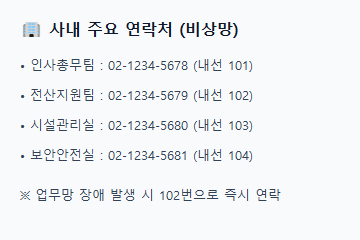
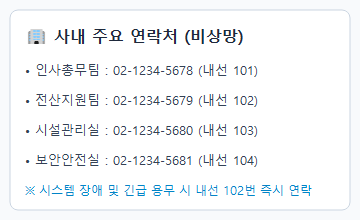
docs: add full set of high-res feature screenshots across calendar, memo, schedule, settings, and alarms to user guide

Changed region(s): [[0.0611, 0.2455, 0.8861, 0.9], [0.0611, 0.0818, 0.6722, 0.2182], [0.9472, 0.9273, 0.9778, 0.9545]]

diff --git a/docs/TaskCalendar_업무활용가이드.md b/docs/TaskCalendar_업무활용가이드.md
@@ -1,59 +1,95 @@
-# 📅 TaskCalendar 신규 기능 & 업무 활용 가이드 (1 Page)
+# 📅 TaskCalendar 기능 & 업무 활용 가이드 (v1.2.0)
 
-> **사내 임직원 업무 효율 향상을 위한 캘린더 신규 기능(스마트 플로팅 메모, 사전 알람, 전역 단축키) 안내서입니다.**
+> **사내 임직원의 업무 효율과 일정 관리를 극대화하기 위한 TaskCalendar 전체 기능(캘린더, 스마트 플로팅 메모, 사전 알람, 전역 단축키) 안내서입니다.**
 
 ---
 
-## 📸 주요 화면 미리보기
+## 📸 전체 기능 화면 미리보기
 
 ````carousel
-![메인 캘린더 화면](C:\Users\ADMIN\.gemini\antigravity\brain\f1bf9cdb-0cb1-4823-acb2-d1ea479a4ce2\main_calendar_screen.png)
+![01. 메인 캘린더 화면](C:\Users\ADMIN\.gemini\antigravity\brain\f1bf9cdb-0cb1-4823-acb2-d1ea479a4ce2\01_main_calendar.png)
 <!-- slide -->
-![전화번호부 및 첨부파일 활용 예시](C:\Users\ADMIN\.gemini\antigravity\brain\f1bf9cdb-0cb1-4823-acb2-d1ea479a4ce2\memo_phonebook_screen.png)
+![02. 스마트 플로팅 메모 (전화번호부/이미지/첨부파일)](C:\Users\ADMIN\.gemini\antigravity\brain\f1bf9cdb-0cb1-4823-acb2-d1ea479a4ce2\02_floating_memo.png)
+<!-- slide -->
+![03. 일정 등록 화면 (직접 입력 & 사전 알람)](C:\Users\ADMIN\.gemini\antigravity\brain\f1bf9cdb-0cb1-4823-acb2-d1ea479a4ce2\03_schedule_dialog.png)
+<!-- slide -->
+![04. 환경설정 및 전역 단축키](C:\Users\ADMIN\.gemini\antigravity\brain\f1bf9cdb-0cb1-4823-acb2-d1ea479a4ce2\04_settings_dialog.png)
+<!-- slide -->
+![05. 알림 관리자 (사전 알람 목록 & 반복 알림)](C:\Users\ADMIN\.gemini\antigravity\brain\f1bf9cdb-0cb1-4823-acb2-d1ea479a4ce2\05_alarm_manager.png)
 ````
 
 ---
 
-## 📌 1. 스마트 플로팅 메모 (바탕화면 포스트잇 & 업무 자료 활용)
+## 📌 1. 메인 캘린더 화면
 
-| 주요 기능 | 설명 및 활용 팁 |
+![메인 캘린더](C:\Users\ADMIN\.gemini\antigravity\brain\f1bf9cdb-0cb1-4823-acb2-d1ea479a4ce2\01_main_calendar.png)
+
+* **캘린더 빈 곳 더블 클릭**: 날짜 셀의 빈 공간을 더블 클릭하면 해당 날짜로 **[일정 등록] 창이 즉시 열립니다.**
+* **상단 헤더 정보**: 최신 버전(`v1.2.0`) 확인 및 `< 2026년 8월 오늘 >` 버튼으로 연/월을 손쉽게 이동할 수 있습니다.
+* **마우스 휠 월 이동**: 캘린더 영역에서 마우스 휠을 위/아래로 굴리면 이전 달 / 다음 달로 부드럽게 전환됩니다.
+* **사이드바 통합 관리**: 우측 사이드바에서 오늘 일정, 선택일 일정, 메모 목록을 직관적으로 확인하고 정렬할 수 있습니다.
+
+---
+
+## 📝 2. 스마트 플로팅 메모 (바탕화면 포스트잇 & 업무 자료)
+
+![스마트 플로팅 메모](C:\Users\ADMIN\.gemini\antigravity\brain\f1bf9cdb-0cb1-4823-acb2-d1ea479a4ce2\02_floating_memo.png)
+
+| 주요 기능 | 설명 및 업무 활용 팁 |
 | :--- | :--- |
-| **바탕화면 자유 배치 & 위치 자동 기억** | • 메모를 원하는 위치에 배치하면 **프로그램을 껐다 켜도 그 위치·크기·접힘 상태 그대로 100% 자동 복원**됩니다. |
-| **전화번호부 / 이미지 본문 삽입** | • 캡처 도구(Win+Shift+S)로 **전화번호부, 비상 연락망, 업무 매뉴얼 등을 복사(Ctrl+C) 후 메모에 붙여넣기(Ctrl+V)**하면 본문에 깔끔하게 삽입됩니다. |
-| **파일 드래그 앤 드롭 자동 첨부** | • 탐색기에서 파일을 메모 창으로 **끌어다 놓기(Drag & Drop)**만 하면 파일이 즉시 자동 첨부됩니다. |
-| **[신규] 파일 열기 & 파일 폴더 열기** | • **파일 열기 (실행)** : 첨부파일을 기본 연결 프로그램으로 즉시 실행합니다.<br>• **파일 폴더 열기** : 윈도우 탐색기를 열어 **해당 파일이 저장된 위치를 바로 선택(하이라이트)**해 줍니다. |
-| **메모 삭제 시 첨부파일 자동 정리** | • 메모를 삭제하면 연결된 첨부파일도 디스크에서 **안전하게 동반 삭제**되어 불필요한 용량을 차지하지 않습니다. |
-| **항상 위 고정(📌) 및 투명도 조절** | • 우상단 핀(📌)을 눌러 다른 창보다 항상 위에 띄우거나, 제목 표시줄 더블클릭으로 접기/펼치기가 가능합니다. |
+| **바탕화면 위치 & 크기 자동 기억** | 메모를 원하는 곳에 배치해 두면 **프로그램 종료 후 재시작 시 그 위치·크기·접힘 상태 그대로 100% 자동 복원**됩니다. |
+| **전화번호부 / 이미지 본문 삽입** | 캡처 도구(`Win + Shift + S`)로 **사내 연락망, 업무 매뉴얼, 비상 연락처 등을 복사(Ctrl+C) 후 메모에 붙여넣기(Ctrl+V)**하면 본문에 선명하게 들어갑니다. |
+| **파일 드래그 앤 드롭 자동 첨부** | 탐색기에서 파일을 메모 창으로 **끌어다 놓기(Drag & Drop)**만 하면 파일이 즉시 자동 첨부됩니다. |
+| **[신규] 파일 열기 & 파일 폴더 열기** | • **파일 열기** : 첨부파일을 기본 연결 프로그램(엑셀, PDF, 이미지 뷰어 등)으로 바로 실행합니다.<br>• **파일 폴더 열기** : 윈도우 탐색기를 열어 **해당 파일이 있는 폴더로 이동 후 파일을 자동 하이라이트**해 줍니다. |
+| **메모 삭제 시 파일 자동 정리** | 메모를 삭제하면 연결된 첨부파일도 디스크에서 **안전하게 동반 삭제**되어 용량을 낭비하지 않습니다. |
+| **상태 전환 버튼 (`-` / `+`)** | 상단 `-` 버튼을 누르면 제목만 남기고 상단 바(34px)로 깔끔하게 접히며(`+`로 변경), `+`를 누르면 원래 크기로 즉시 복원됩니다. |
+| **항상 위 고정(📌) & 투명도 조절** | 핀(📌)을 눌러 다른 작업 창보다 항상 위에 띄우거나, 슬라이더로 투명도를 조절해 배경 문서를 보면서 작업할 수 있습니다. |
+| **즉각 닫기 최적화 (0ms)** | `X` 버튼을 누르면 지연 없이 **누르는 즉시 번개처럼 빠르게 닫히며** 안전하게 자동 저장됩니다. |
 
 ---
 
-## ⏰ 2. 놓치지 않는 일정 & 사전 알람
+## ✍ 3. 일정 & 할일 등록
 
-* **사전 알림 설정**: 중요한 회의나 업무 마감 전 **5분 전, 10분 전, 15분 전, 30분 전, 1시간 전** 등 사전 알림을 지정할 수 있습니다.
-* **실시간 팝업 알림**: 알림 시간이 되면 화면 우측 하단에 알림 팝업이 표시되며, **[확인]** 또는 **[다시 알림 (5분 뒤)]**을 선택할 수 있습니다.
+![일정 등록 창](C:\Users\ADMIN\.gemini\antigravity\brain\f1bf9cdb-0cb1-4823-acb2-d1ea479a4ce2\03_schedule_dialog.png)
+
+* **간소화된 직접 입력창**: 복잡한 헤더 라벨을 없애고 열자마자 바로 일정 내용을 타이핑할 수 있는 넓은 입력 영역을 제공합니다.
+* **반복 일정 지원**: 매일, 매주, 매월 특정 요일/날짜, 매년 등 다양한 반복 패턴을 지원합니다.
+* **일시 & 종일 옵션**: 시작/종료 일시 및 시간을 자유롭게 지정하거나 [종일] 체크로 하루 종일 일정을 설정할 수 있습니다.
+* **사전 팝업 알람**: 일정 시작 시간 기준 **5분 전, 10분 전, 15분 전, 30분 전, 1시간 전** 사전 알림을 지정할 수 있습니다.
 
 ---
 
-## ⚙ 3. 환경설정 & 전역 단축키 (업무 속도 UP)
+## ⚙ 4. 환경설정 & 전역 단축키
 
-메인 창 우측 상단의 **[환경설정]** 메뉴에서 설정할 수 있습니다.
+![환경설정](C:\Users\ADMIN\.gemini\antigravity\brain\f1bf9cdb-0cb1-4823-acb2-d1ea479a4ce2\04_settings_dialog.png)
 
 ```mermaid
 graph LR
     A[환경설정] --> B[윈도우 시작 시 자동 실행]
     A --> C[캘린더 표시/숨김 단축키]
     A --> D[빠른 메모 생성 단축키]
-    B --> E[부팅 시 자동 실행되어 메모/알림 즉시 대기]
+    B --> E[부팅 시 자동 실행되어 메모/알람 즉시 대기]
     C --> F[다른 프로그램 작업 중에도 즉시 호출]
     D --> G[전화 통화/급한 메모 시 단축키로 1초 만에 작성]
 ```
 
-1. **윈도우 시작 시 자동 실행**: PC를 켤 때 자동으로 실행되어 플로팅 메모와 알람이 즉각 대기합니다.
-2. **캘린더 표시/숨김 단축키**: 인터넷/문서 작업 중에도 지정한 단축키(예: `Ctrl + Shift + C`)를 누르면 캘린더가 바로 열리고 닫힙니다.
-3. **빠른 메모 단축키**: 전화 통화나 긴급 메모가 필요할 때 단축키(예: `Ctrl + Shift + M`) 한 번으로 새 메모 창이 즉시 열립니다.
+1. **윈도우 시작 시 자동 실행**: PC 부팅 시 백그라운드로 자동 실행되어 플로팅 메모와 사전 알람이 항상 대기합니다.
+2. **캘린더 표시/숨김 전역 단축키** (기본: `Ctrl + Shift + C`): 워드, 엑셀, 웹서핑 중 언제 어디서든 단축키로 캘린더를 호출하고 숨길 수 있습니다.
+3. **빠른 메모 전역 단축키** (기본: `Ctrl + Shift + M`): 전화 통화나 긴급 메모가 필요할 때 1초 만에 새 메모 창을 띄울 수 있습니다.
+4. **테마 스킨 & 자동 백업**: 밝은/어두운 테마 스킨 변경 및 소중한 데이터 자동 암호화 백업 설정을 관리합니다.
+
+---
+
+## ⏰ 5. 알림 관리자 (사전 알람 & 반복 알림)
+
+![알림 관리자](C:\Users\ADMIN\.gemini\antigravity\brain\f1bf9cdb-0cb1-4823-acb2-d1ea479a4ce2\05_alarm_manager.png)
+
+* **전체 알람 현황 조회**: 등록된 모든 사전 알람과 독립 알람 목록을 한눈에 조회하고 수정/삭제할 수 있습니다.
+* **정각/지정 알림**: 출퇴근 시간, 약 복용, 정기 회의 등 원하는 시간대별 커스텀 알람을 손쉽게 추가합니다.
 
 ---
 
 > [!TIP]
-> **💡 임직원 추천 활용법**:
-> 자주 찾는 **"사내 비상 연락망"**이나 **"팀 업무 매뉴얼"**을 메모에 띄워두고 **[항상 위 고정(📌)]** 해두시면, 업무 중 언제든지 바로 확인하실 수 있어 매우 편리합니다!
+> **💡 임직원 추천 업무 꿀팁**:
+> 1. 자주 확인하는 **"사내 비상 연락망"**이나 **"프로젝트 일정표"**를 메모에 띄워두고 **[항상 위 고정(📌)]** 해두세요!
+> 2. 자리를 비우거나 화면을 넓게 써야 할 때는 **메모 상단 `-` 버튼을 눌러 슬림하게 접어두세요!**
